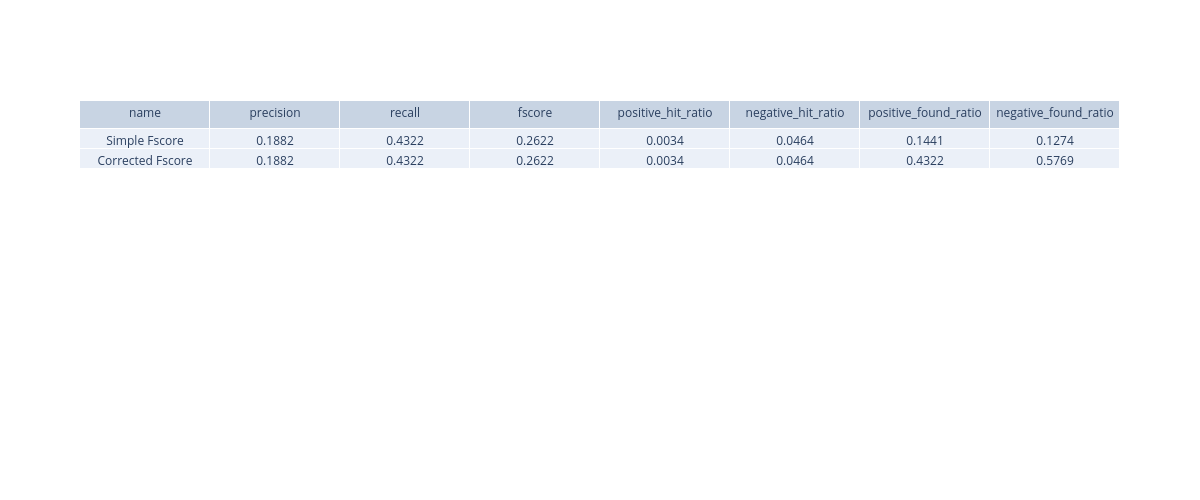
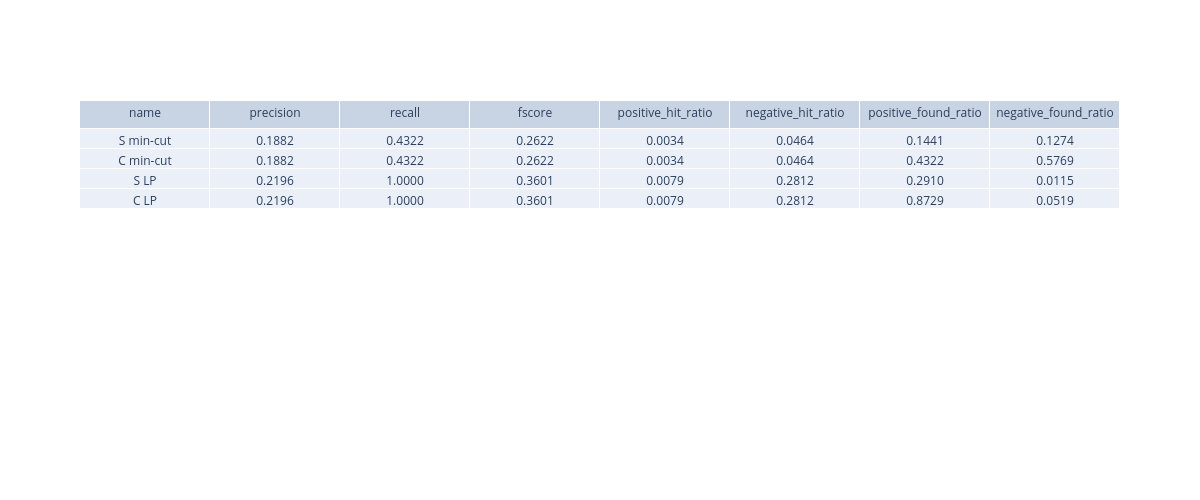
WIP refactor

diff --git a/main.py b/main.py
@@ -10,6 +10,44 @@ import generateGraph
 import score
 import helper
 import labelProp
+import minCut
+
+def performMinCut(graph, real_positives, real_negatives, fscores):
+
+    # Use the simplest min cut
+    (predicted_positives, predicted_negatives) = minCut.getSimpleMinCut(graph, "good", "bad")
+
+    fscores.append(score.correctedFscore("Simple min-cut", real_positives, real_negatives, predicted_positives, 
+        predicted_negatives, graph.vs()["name"]))
+
+    # Try to improve min-cut, adding a high capacity to adjacent edges, so they don't get cut
+    (predicted_positives, predicted_negatives) = minCut.getNonNeighboursEdgesMinCut(graph, "good", "bad")
+
+    fscores.append(score.correctedFscore("Non Neighbours min-cut", real_positives, real_negatives, predicted_positives, 
+        predicted_negatives, graph.vs()["name"]))
+
+    # Try to improve min-cut, adding a subgraph of connected edges so they don't get cut
+    (predicted_positives, predicted_negatives) = minCut.getNonNeighboursEdgesMinCut(graph, "good", "bad")
+
+    fscores.append(score.correctedFscore("Non Neighbours min-cut", real_positives, real_negatives, predicted_positives, 
+        predicted_negatives, graph.vs()["name"]))
+
+    # Try with only the words 
+
+def performLabelProp(graph, real_positives, real_negatives, fscores):
+    # Label prop
+    print("Label propagation")
+    (predicted_positives, predicted_negatives) = labelProp.performLabelProp(
+        graph, 
+        ["good"], 
+        ["bad"])
+
+    fscores.append(score.fscore("S LP", real_positives, real_negatives, predicted_positives, predicted_negatives))
+    fscores.append(score.correctedFscore("C LP", real_positives, real_negatives, predicted_positives, 
+        predicted_negatives, graph.vs()["name"]))
+
+
+# MAIN
 
 NUMBER_OF_SEEDS = 100
 
@@ -20,24 +58,10 @@ negative_seed = np.random.choice(real_negatives, NUMBER_OF_SEEDS)
 positive_seed = np.random.choice(real_positives, NUMBER_OF_SEEDS)
 
 graph = generateGraph.getFullADJGraph()
-(predicted_positives, predicted_negatives) = graphFunctions.getMinCut(graph, "good", "bad")
-
 fscores = []
-fscores.append(score.fscore("Simple Fscore", real_positives, real_negatives, predicted_positives, predicted_negatives))
-fscores.append(score.correctedFscore("Corrected Fscore", real_positives, real_negatives, predicted_positives, predicted_negatives, graph.vs()["name"]))
 
-score.saveFScoresTable(fscores, "good")
-score.printFscores(fscores)
-
-# Label prop
-print("Label propagation")
-(predicted_positives, predicted_negatives) = labelProp.performLabelProp(
-    graph, 
-    ["good"], 
-    ["bad"])
-fscores = []
-fscores.append(score.fscore("Simple Fscore", real_positives, real_negatives, predicted_positives, predicted_negatives))
-fscores.append(score.correctedFscore("Corrected Fscore", real_positives, real_negatives, predicted_positives, predicted_negatives, graph.vs()["name"]))
+performMinCut(graph, real_positives, real_negatives, fscores)
+performLabelProp(graph, real_positives, real_negatives, fscores)
 
 score.saveFScoresTable(fscores, "good")
 score.printFscores(fscores)

diff --git a/generateGraph.py b/generateGraph.py
@@ -37,7 +37,7 @@ def graphCache(function):
 
 # Graph functions   
 
-def getGraph(words_synsets):
+def getLemmasGraph(words_synsets):
     lemmas = loadWordNet.getAllLemmas(words_synsets)
 
     graph = graphFunctions.createGraph(loadWordNet.getNames(lemmas))
@@ -50,7 +50,18 @@ def getGraph(words_synsets):
         for synonym_name in loadWordNet.getNames(synonyms):
             graphFunctions.addEdgeIf(graph, base_lemma_name, synonym_name)
     
-    graph.es()['weight'] = [1]*len(graph.get_edgelist()) # TODO remove dummy way of adding weights
+    return graph
+
+def getSynsetGraph(words_synsets):
+
+    graph = graphFunctions.createGraph(loadWordNet.getNames(words_synsets))
+
+    for word_synset in words_synsets:
+        synonyms = loadWordNet.findRelatedSynsets(word_synset)
+
+        for synonym_name in loadWordNet.getNames(synonyms):
+            graphFunctions.addEdgeIf(graph, loadWordNet.getName(word_synset), synonym_name)
+    
     return graph
 
 class QueueObject:
@@ -80,6 +91,16 @@ def getSynsetsDepth(words_synsets, max_depth):
             
     
     return list(new_words_synsets)
+
+def getSynsetsFromWords(words):
+    new_words_synsets = set()
+    
+    for word in words:
+        synsets = loadWordNet.getSynsets(word)
+        for synset in synsets:
+            new_words_synsets.add(synset)
+
+    return list(new_words_synsets)
     
 # Get graph functions
 
@@ -87,19 +108,28 @@ def getSynsetsDepth(words_synsets, max_depth):
 def getFullGraph():
     # possible word types: ADJ, ADJ_SAT, ADV, NOUN, VERB
     words_synsets = list(wn.all_synsets())
-    return getGraph(words_synsets)
+    return getLemmasGraph(words_synsets)
 
 @graphCache
 def getFullADJGraph():
     # possible word types: ADJ, ADJ_SAT, ADV, NOUN, VERB
     words_synsets = list(wn.all_synsets(wn.ADJ))
-    return getGraph(words_synsets)
+    return getLemmasGraph(words_synsets)
 
 @graphCache
 def getSmallADJGraph():
     # possible word types: ADJ, ADJ_SAT, ADV, NOUN, VERB
     words_synsets = list(wn.all_synsets(wn.ADJ))[:500]
-    return getGraph(words_synsets)
+    return getLemmasGraph(words_synsets)
+
+@graphCache
+def getValidateOnlyWordsGraph():
+    real_positives = helper.readCsvWords("./LMDictCsv/LMDpositive.csv")
+    real_negatives = helper.readCsvWords("./LMDictCsv/LMDnegative.csv")
+
+    words_synsets = getSynsetsFromWords(real_negatives + real_positives)
+    getLemmasGraph(words_synsets)
+
 
 
 # Main for tests
@@ -114,5 +144,5 @@ if __name__ == "__main__":
     good = wn.synset('good.a.01')
     synsets = getSynsetsDepth([good], 1)
     print(helper.unique(loadWordNet.getNames(synsets)))
-    g = getGraph(synsets)
+    g = getLemmasGraph(synsets)
     graphPlots.plotBigKKLayoutWithLabels(g)

diff --git a/score.py b/score.py
@@ -1,6 +1,11 @@
 
-import helper
 import plotly.graph_objects as go
+
+import graphFunctions
+import generateGraph
+import labelProp
+import minCut
+import helper
 
 class FScore:
     def __init__(self, name, real_positives, real_negatives, predicted_positives, predicted_negatives):
@@ -73,3 +78,24 @@ def saveFScoresTable(fscores, image_name):
 def printFscores(fscores):
     for fscore in fscores:
         print(fscore.toDict())
+
+if __name__ == "__main__":
+    
+    def checkDifferenceBetweenScores():
+        real_positives = helper.readCsvWords("./LMDictCsv/LMDpositive.csv")
+        real_negatives = helper.readCsvWords("./LMDictCsv/LMDnegative.csv")
+
+        graph = generateGraph.getFullADJGraph()
+
+        (predicted_positives, predicted_negatives) = minCut.getNonNeighboursEdgesMinCut(graph, "good", "bad")
+
+        # Check the differences between the scores, fscore doesn't change, but the ratio found changes
+        fscores = []
+        fscores.append(fscore("Simple", real_positives, real_negatives, predicted_positives, 
+            predicted_negatives))
+        fscores.append(correctedFscore("Corrected", real_positives, real_negatives, predicted_positives, 
+            predicted_negatives, graph.vs()["name"]))
+
+        saveFScoresTable(fscores, "scoresComparation")
+
+    checkDifferenceBetweenScores()

diff --git a/minCut.py b/minCut.py
@@ -1,0 +1,32 @@
+import graphFunctions
+
+# Base function
+def getMinCut(graph, s, t):
+    s_id = graph.vs().find('good').index
+    t_id = graph.vs().find('bad').index
+
+    min_cut = graph.maxflow(s_id, t_id, "capacity")
+
+    positive_names = graphFunctions.getVerticesNames(graph, min_cut[0])
+    negative_names = graphFunctions.getVerticesNames(graph, min_cut[1])
+    return (positive_names, negative_names)
+
+
+# Min Cuts
+def getSimpleMinCut(graph, s, t):
+    graph.es()["capacity"] = [1 for i in range(graph.ecount())]
+    return getMinCut(graph, s, t)
+
+def getNonNeighboursEdgesMinCut(graph, s, t):
+
+    s_id = graph.vs().find('good').index
+    t_id = graph.vs().find('bad').index
+
+    graph.es()["capacity"] = [1 for i in range(graph.ecount())]
+
+    # we force that directly connected edges to one of the nodes should belong to the same node
+    corner_edges_ids = graph.incident(s_id) + graph.incident(t_id)
+    for edge_id in corner_edges_ids:
+        graph.es()[edge_id]["capacity"] = 10000
+
+    return getMinCut(graph, s, t)

diff --git a/graphFunctions.py b/graphFunctions.py
@@ -28,23 +28,5 @@ def addNodeIfNotExists(graph, name):
 def getVerticesNames(graph, vertices_ids):
     return ig.VertexSeq(graph, vertices_ids)["name"]
 
-def getMinCut(graph, s, t):
-    s_id = graph.vs().find('good').index
-    t_id = graph.vs().find('bad').index
-
-    graph.es()["capacity"] = [1 for i in range(graph.ecount())]
-
-    # we force that directly connected edges to one of the nodes should belong to the same node
-    corner_edges_ids = graph.incident(s_id) + graph.incident(t_id)
-    for edge_id in corner_edges_ids:
-        graph.es()[edge_id]["capacity"] = 10000
-
-    min_cut = graph.maxflow(s_id, t_id, "capacity")
-
-    positive_names = getVerticesNames(graph, min_cut[0])
-    negative_names = getVerticesNames(graph, min_cut[1])
-    return (positive_names, negative_names)
-
-
 if __name__ == "__main__":
     False

diff --git a/loadWordNet.py b/loadWordNet.py
@@ -21,6 +21,9 @@ def findSynsetSynonymsSynset(synset):
     
     return helper.flatten_unique(synonyms)
 
+def findRelatedSynsets(synset):
+    return synset.similar_tos()
+
 def findSynonymsSynset(synset):
     synonyms = []
     for lemma in synset.lemmas():
@@ -36,6 +39,9 @@ def getAllLemmas(words_synsets):
     for word_synset in words_synsets:
         lemmas = lemmas + getSynsetNames(word_synset)
     return lemmas
+
+def getSynsets(lemma):
+    return wn.synsets(lemma)
 
 if __name__ == "__main__":
     good = wn.synset('good.a.01')
